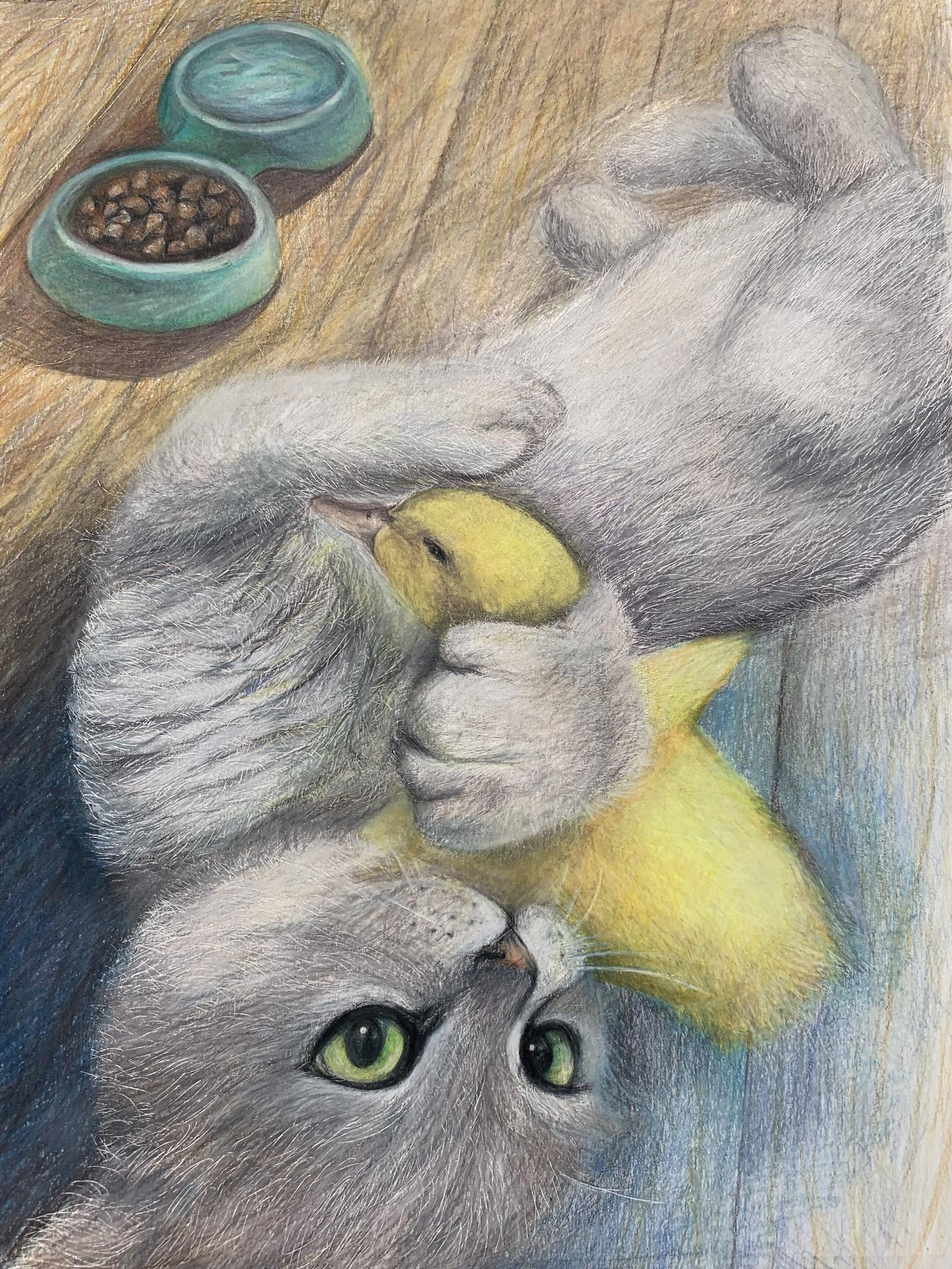
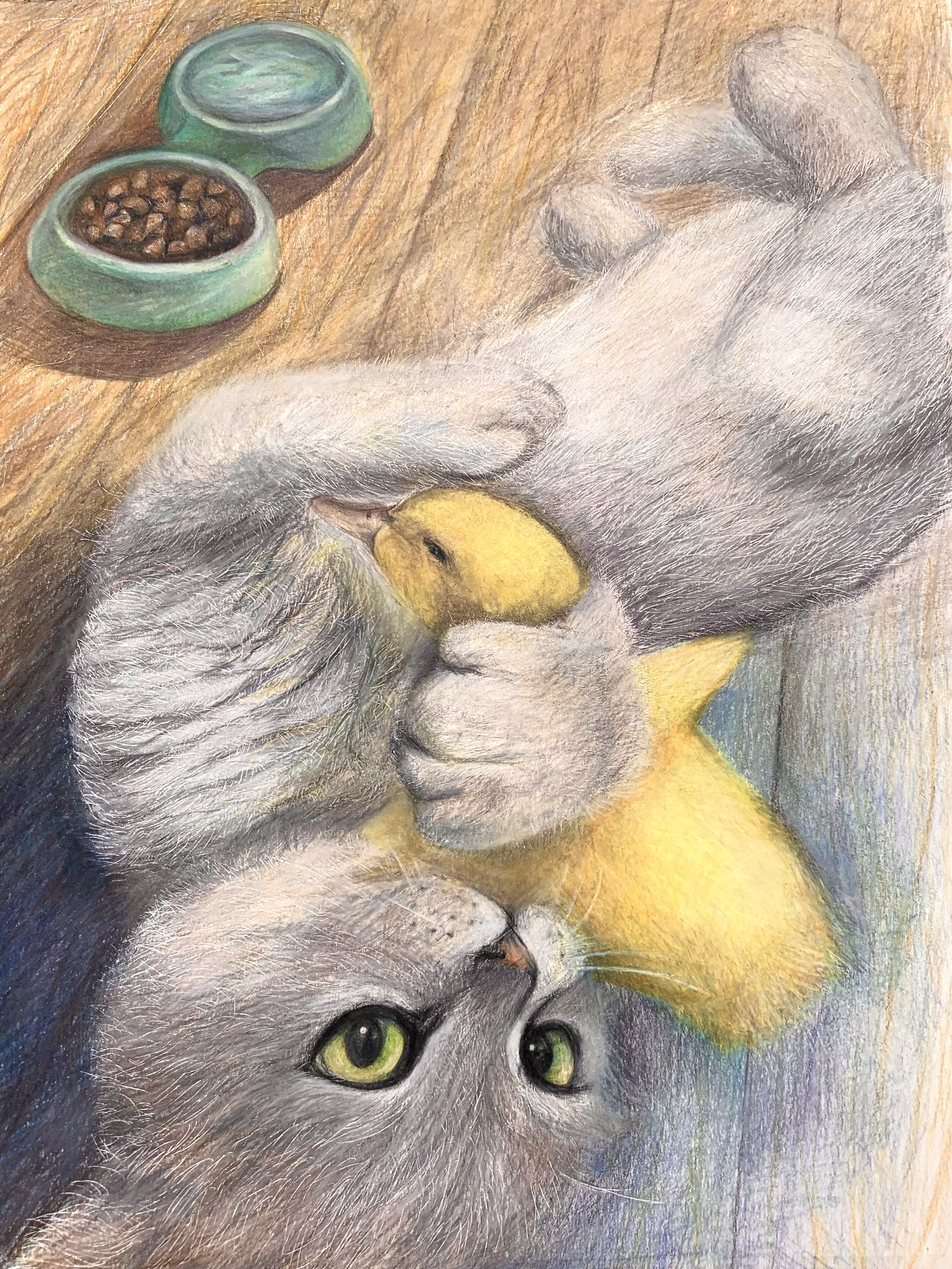
add more art

diff --git a/src/app/data.ts b/src/app/data.ts
@@ -295,7 +295,7 @@ export const DATA = {
         title: "Long-tailed Duck",
         medium: "Acrylic on gessobord",
         year: "2023",
-        award: "FWS Junior Duck Stamp — MD State, national traveling display",
+        award: "FWS Junior Duck Stamp — MD State runner-up, national traveling display",
         image: "/art/duck-long-tailed.jpg",
       },
       {
@@ -306,23 +306,23 @@ export const DATA = {
         image: "/art/forrest.jpg",
       },
       {
-        title: "Rural",
+        title: "Untitled",
         medium: "Charcoal",
-        year: "2024",
+        year: "2025",
         image: "/art/farmers-buffalo.jpg",
       },
       {
         title: "White-cheeked Pintails",
         medium: "Oil on gessobord",
         year: "2023",
-        award: "FWS Junior Duck Stamp — MD State",
+        award: "FWS Junior Duck Stamp — MD State runner-up, national traveling display",
         image: "/art/ducks-spot-billed.jpg",
       },
       {
         title: "Playdate",
         medium: "Colored pencil",
         year: "2021",
-        award: "Celebrating Art — High Merit",
+        award: "Celebrating Art Magazine — High Merit",
         image: "/art/duckling.jpg",
       },
       {
@@ -365,7 +365,7 @@ export const DATA = {
       },
       {
         title: "For Grandpa",
-        medium: "Oil on canvas",
+        medium: "Procreate",
         year: "2024",
         image: "/art/willow-lake.jpg",
       },
@@ -375,13 +375,79 @@ export const DATA = {
         year: "2022",
         image: "/art/shoe-ink.jpg",
       },
+      {
+        title: "Slopes",
+        medium: "Colored pencil",
+        year: "2026",
+        image: "/art/slopes.jpg",
+      },
+      {
+        title: "Forrest W.I.P",
+        medium: "Acrylic",
+        year: "2026",
+        image: "/art/forrest-wip.jpg",
+      },
+      {
+        title: "Pebbles",
+        medium: "Oil on gessobord",
+        year: "2022",
+        image: "/art/pebbles.jpg",
+      },
+      {
+        title: "Persimmon",
+        medium: "Procreate",
+        year: "2024",
+        image: "/art/persimmon.jpg",
+      },
+      {
+        title: "Face",
+        medium: "Acrylic",
+        year: "2022",
+        image: "/art/face.jpg",
+      },
+      {
+        title: "Field",
+        medium: "Watercolor",
+        year: "2024",
+        image: "/art/field.jpg",
+      },
+      {
+        title: "Still Life",
+        medium: "Watercolor",
+        year: "2023",
+        image: "/art/still-life.jpg",
+      },
+      {
+        title: "Flower",
+        medium: "Watercolor",
+        year: "2021",
+        image: "/art/flower.jpg",
+      },
+      {
+        title: "W.I.P",
+        medium: "Oil pastel",
+        year: "2026",
+        image: "/art/wip-oil-pastel.jpg",
+      },
+      {
+        title: "Blue",
+        medium: "Watercolor",
+        year: "2021",
+        image: "/art/blue.jpg",
+      },
+      {
+        title: "Canal W.I.P",
+        medium: "Oil on gessobord",
+        year: "2026",
+        image: "/art/canal-wip.jpg",
+      },
     ],
     FEATURED: [
       {
         publication: "Blue Marble Review",
         title: "Paths",
         description: "Cover art",
-        year: "2023",
+        year: "2024",
         url: "https://bluemarblereview.com/category/cover-art/",
       },
       {
@@ -395,7 +461,7 @@ export const DATA = {
         publication: "Oil Painters of America",
         title: "Turbulence",
         description: "16\"×20\" oil — Show #84271",
-        year: "2022",
+        year: "2024",
         url: "https://blog.oilpaintersofamerica.com/show-gallery/?show=84271&pagenum=2",
       },
       {
@@ -408,19 +474,19 @@ export const DATA = {
       {
         publication: "FWS Junior Duck Stamp",
         title: "Long-tailed Duck",
-        description: "MD State — national traveling display",
-        year: "2023",
+        description: "MD State runner-up — national traveling display",
+        year: "2022",
         url: "https://www.fws.gov/sites/default/files/documents/JDS%20Placing%20Art%202022.pdf",
       },
       {
         publication: "FWS Junior Duck Stamp",
-        title: "Spot-billed Ducks",
-        description: "Maryland state winner — Blackwater NWR",
+        title: "White-cheeked Pintails",
+        description: "MD State runner-up — national traveling display",
         year: "2023",
         url: "https://www.fws.gov/sites/default/files/documents/JDS-MD-Placing-Art-2023-blackwater-nwr_1.pdf",
       },
       {
-        publication: "Celebrating Art",
+        publication: "Celebrating Art Magazine",
         title: "Summer",
         description: "High Merit — Summer 2021",
         year: "2021",
